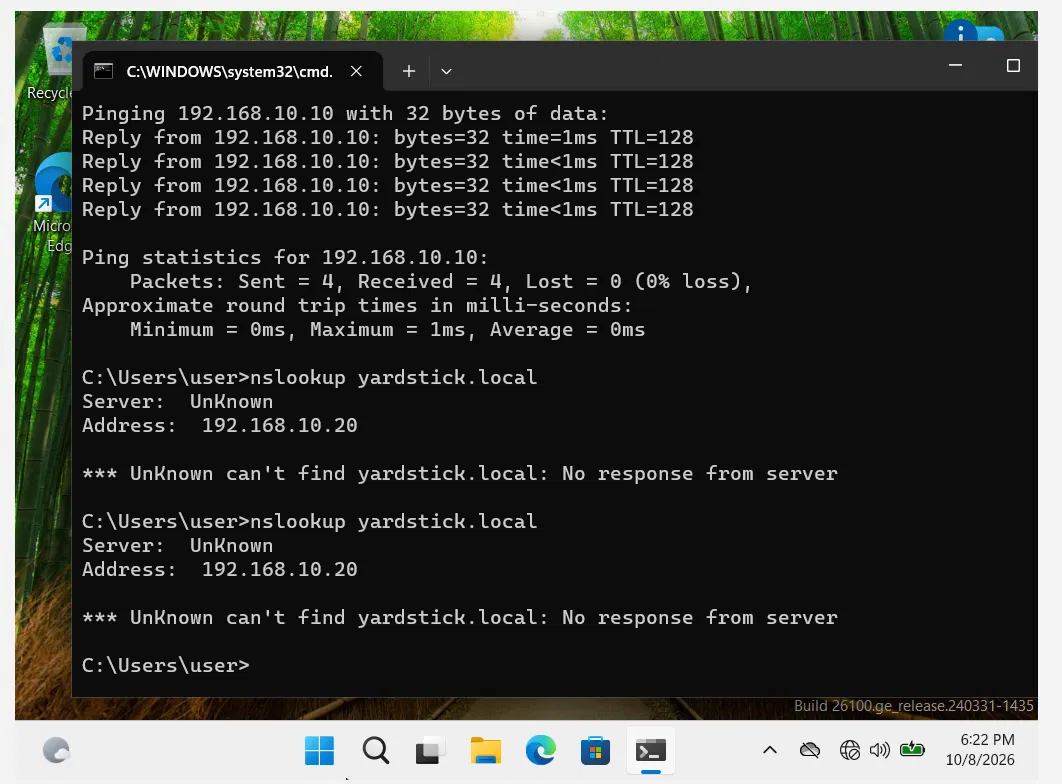
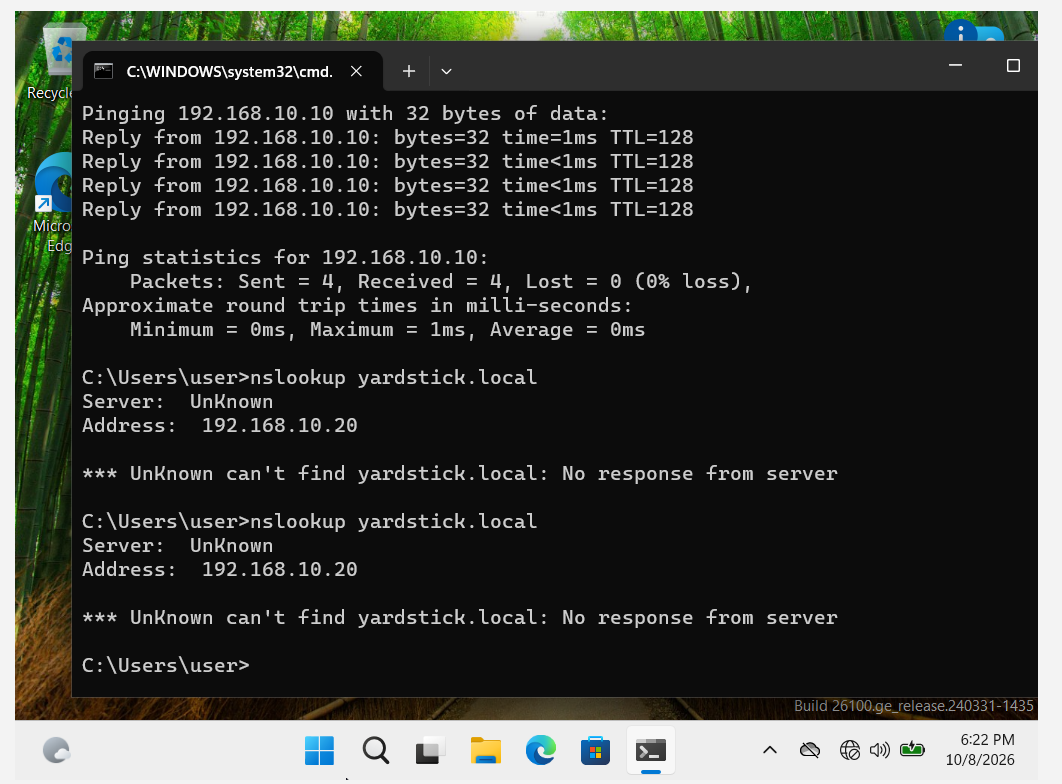
Document PC-102 setup and domain join, Phase 1 complete

diff --git a/docs/01-lab-setup.md b/docs/01-lab-setup.md
@@ -26,7 +26,9 @@ They can reach each other, but not my home network, like a small isolated office
 | 5 | Install the AD DS role | ✅ (after Problem 4) |
 | 6 | Promote to domain controller | ✅ |
 | 7 | Verify the domain controller | ✅ |
-| 8 | Create and join PC-102 | ⬜ Next |
+| 8 | Create PC-102 and install Windows 11 | ✅ |
+| 9 | Join PC-102 to the domain | ✅ (after Problem 6) |
+| — | **Phase 1 complete** | ✅ |
 
 ---
 
@@ -154,6 +156,60 @@ Snapshot taken: `DC01-03-dc-promoted-healthy`.
 Status: ✅ Done
 
 ---
+
+---
+
+## Step 8: Create PC-102 and install Windows 11
+
+VirtualBox detected **Windows 11 Enterprise Evaluation** in the OS Edition field.
+That only works when the ISO contains an install image, so it confirmed the media was correct.
+On the server, this field was empty, which was an early sign of Problem 3.
+
+![PC-102 new VM](../screenshots/01-setup/14-pc102-new-vm.png)
+
+| Setting | Value | Why |
+|---|---|---|
+| Name | PC-102 | Matches the computer name it will have in AD |
+| ISO | Windows 11 Enterprise Evaluation | Home edition can't join a domain |
+| Memory / CPUs / Disk | 4096 MB / 2 / 64 GB | |
+| UEFI, TPM 2.0, Secure Boot | On | Required by Windows 11 |
+| Network | Internal Network `yardstick-lab` | Same network as DC01 |
+
+There is no internet on the lab network, so during setup I created a **local admin account**.
+If the PC ever loses contact with the domain, I can still sign in locally to fix it.
+
+Status: ✅ Done
+
+---
+
+## Step 9: Join PC-102 to the domain
+
+Before joining, I set the client's static IP (192.168.10.20) and pointed its DNS to DC01
+(192.168.10.10). My first attempt had the DNS wrong, see Problem 6.
+
+Then: `sysdm.cpl > Computer Name > Change > Domain: yardstick.local`,
+using `YARDSTICK\Administrator`, and restarted.
+
+**Verified on PC-102**
+
+| Command | Result | Meaning |
+|---|---|---|
+| `whoami` | `yardstick\administrator` | Signed in with a domain account |
+| `echo %logonserver%` | `\\DC01` | DC01 authenticated the logon |
+| `systeminfo \| findstr /i "domain"` | `yardstick.local` | PC-102 is a domain member |
+
+![whoami on PC-102](../screenshots/01-setup/18-pc102-whoami.png)
+
+**Verified on DC01**
+
+A computer object for PC-102 appeared in the default **Computers** container.
+In a real company, I'd move it into the right OU so the correct Group Policies apply.
+
+![Get-ADComputer PC-102](../screenshots/01-setup/20-get-adcomputer-pc102.png)
+
+Snapshots: `DC01-04-client-joined`, `PC-102-02-domain-joined`.
+
+Status: ✅ Done
 
 ## Troubleshooting
 
